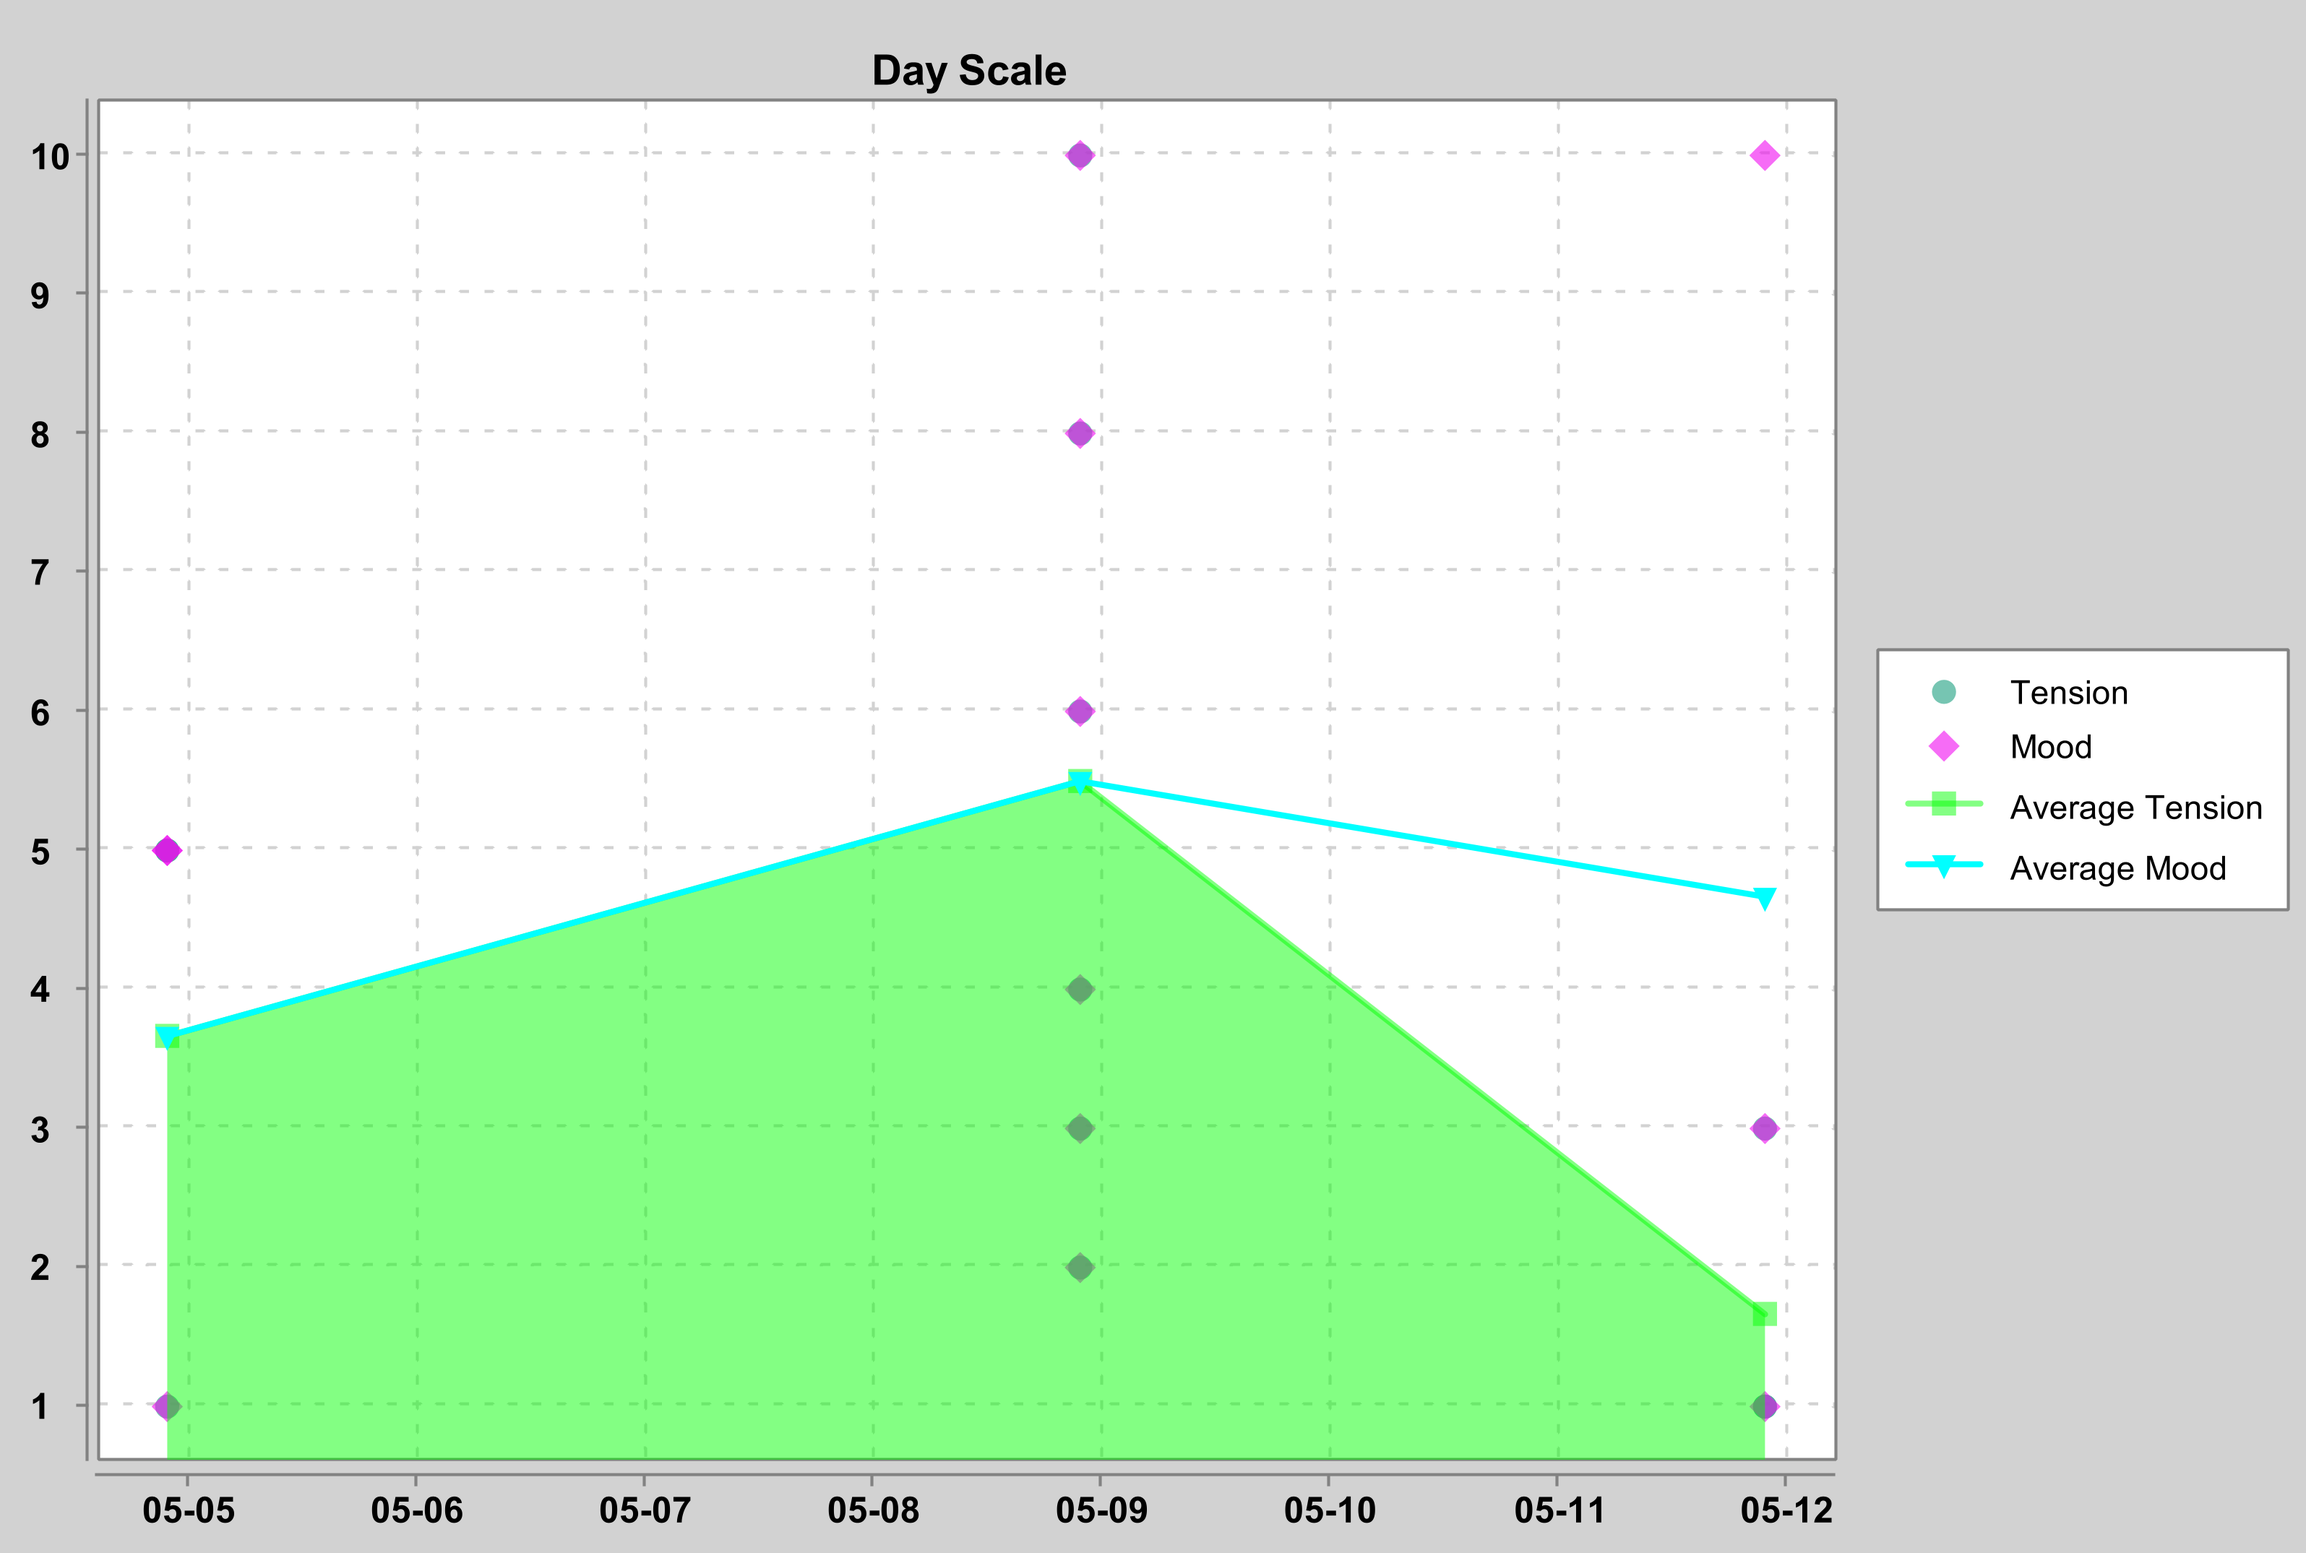
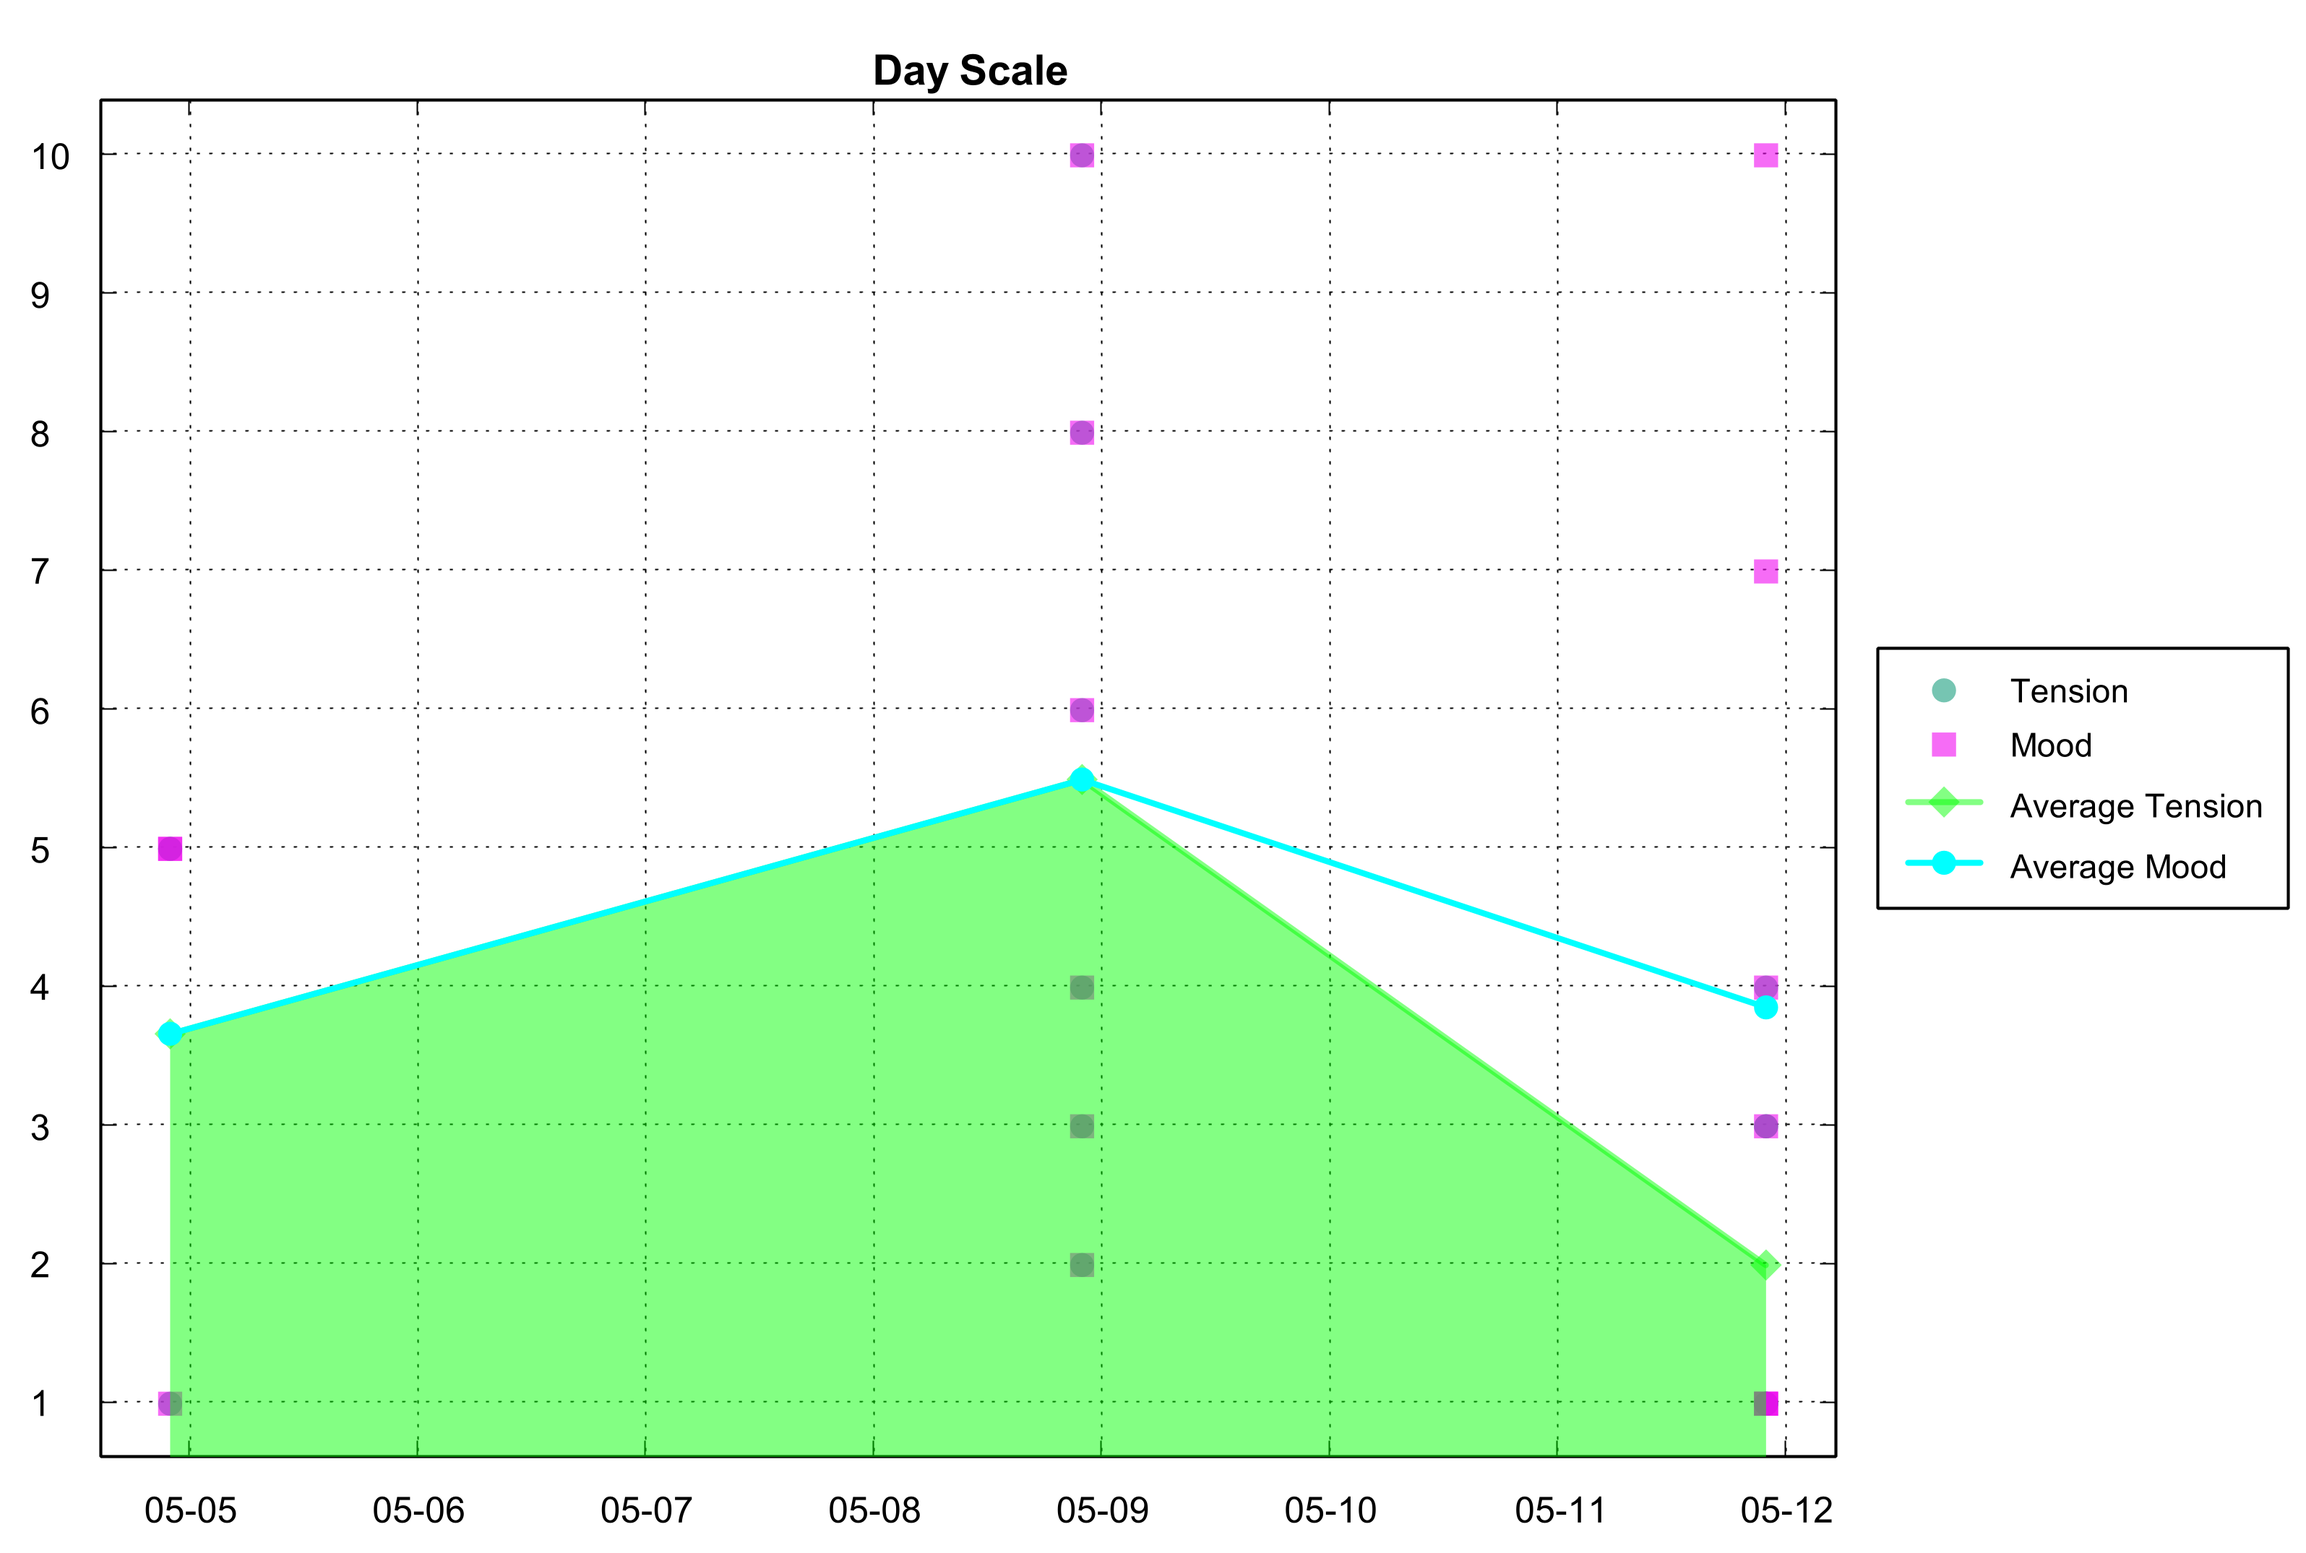
GUI update

diff --git a/src/main/resources/se/hkr/app/tabs.css b/src/main/resources/se/hkr/app/tabs.css
@@ -1,6 +1,5 @@
-
 #headerMenu {
- -fx-font-family: "Optima Regular";
+    -fx-font-family: "Optima Regular";
 }
 
 #moodContainer {
@@ -13,13 +12,13 @@
     -fx-font-size: 30px;
 }
 
-#moodLabel{
--fx-font-family: "Lucida Grande";
+#moodLabel {
+    -fx-font-family: "Lucida Grande";
     -fx-text-fill: black;
     -fx-font-size: 24px;
 }
 
-#tensionLabel{
+#tensionLabel {
     -fx-font-family: "Lucida Grande";
     -fx-text-fill: black;
     -fx-font-size: 24px;
@@ -37,4 +36,62 @@
 
 #historyContainer {
     -fx-background-color: white;
+}
+
+.btns {
+    -fx-background-color: #32328E;
+    -fx-background-radius: 5px;
+    -fx-text-fill: white;
+}
+
+.btns:hover {
+    -fx-background-color: #1e025f;
+    -fx-scale-y: 1.1;
+    -fx-cursor: hand;
+}
+
+.btns:pressed {
+    -fx-scale-y: 0.9;
+    -fx-scale-x: 0.9;
+}
+
+.tab-pane .tab-header-area .tab-header-background {
+    -fx-opacity: 0;
+}
+
+.tab-pane {
+    -fx-tab-min-width: 90px;
+}
+
+.tab {
+    -fx-background-insets: 0 1 0 1, 0, 0;
+}
+
+.tab-pane .tab {
+    -fx-background-color: #e6e6e6;
+
+}
+
+.tab-pane:focused > .tab-header-area > .headers-region > .tab:selected .focus-indicator {
+    -fx-border-color: transparent;
+}
+
+.tab .tab-label {
+    -fx-alignment: CENTER;
+    -fx-text-fill: #828282;
+    -fx-font-size: 12px;
+    -fx-font-weight: bold;
+}
+
+.tab:selected .tab-label {
+    -fx-alignment: CENTER;
+    -fx-text-fill: #32328E;
+}
+
+.input {
+    -fx-focus-color: #32328E;
+}
+
+.icons {
+    -fx-fill: #32328E;
 }

diff --git a/src/main/resources/se/hkr/app/register.css b/src/main/resources/se/hkr/app/register.css
@@ -1,21 +1,3 @@
-#appName {
-    -fx-font-family: "Optima";
-}
-
-#background {
-    -fx-background-color: white;
-}
-
-#title {
-    -fx-font-family: "Lucida Grande";
-    -fx-background-color: white;
-    -fx-font-size: 20px;
-}
-
-#formContainer {
-    -fx-background-color: white;
-}
-
 .btns {
     -fx-background-color:#32328E;
     -fx-background-radius: 5px;

diff --git a/src/main/java/se/hkr/app/MenuController.java b/src/main/java/se/hkr/app/MenuController.java
@@ -178,7 +178,7 @@ public class MenuController {
 
     private void buildPieChart() throws SQLException, IOException {
         // Create Chart
-        XYChart chart = new XYChartBuilder().theme(Styler.ChartTheme.XChart).width(766).height(516).title("Day Scale")
+        XYChart chart = new XYChartBuilder().theme(Styler.ChartTheme.Matlab).width(766).height(516).title("Day Scale")
                 .build();
         // Colors
         Color DarkBlue = new Color(50, 168, 140, 171);
@@ -219,7 +219,7 @@ public class MenuController {
         try (FileInputStream stream = new FileInputStream(imageURL)) {
             Chart.setImage(new Image(stream));
        }
-    }
+    } 
 
     // Journal history tab
     public void onDisplayJournalButtonBtnClick(ActionEvent event) throws SQLException{
